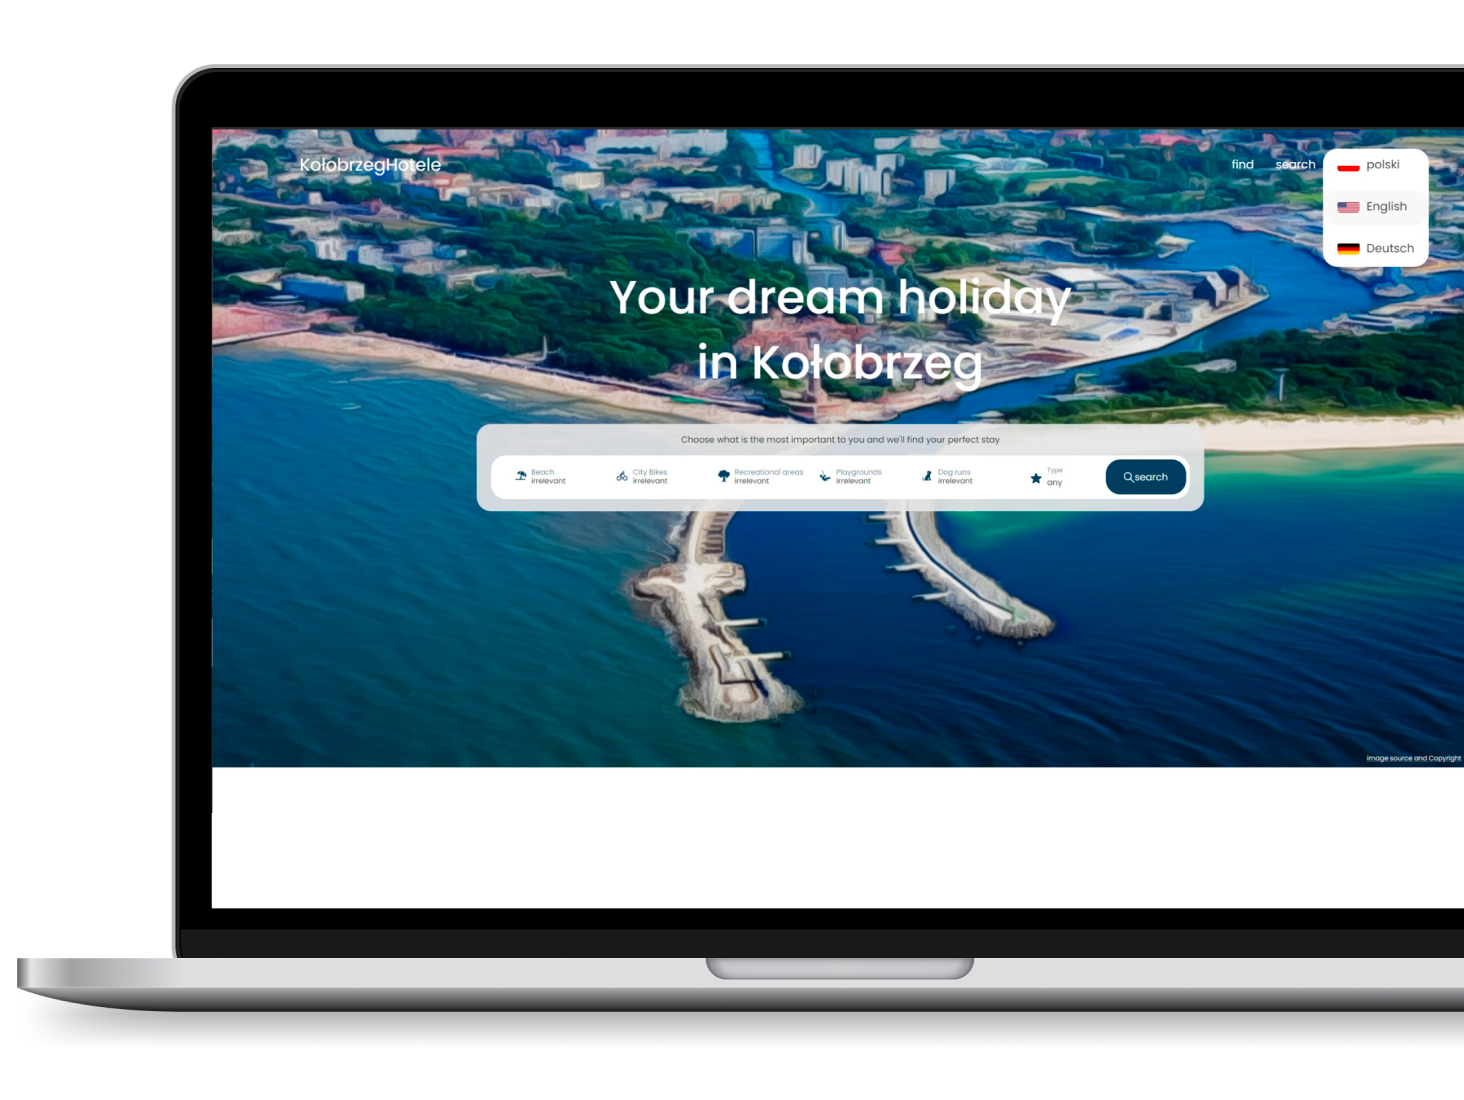
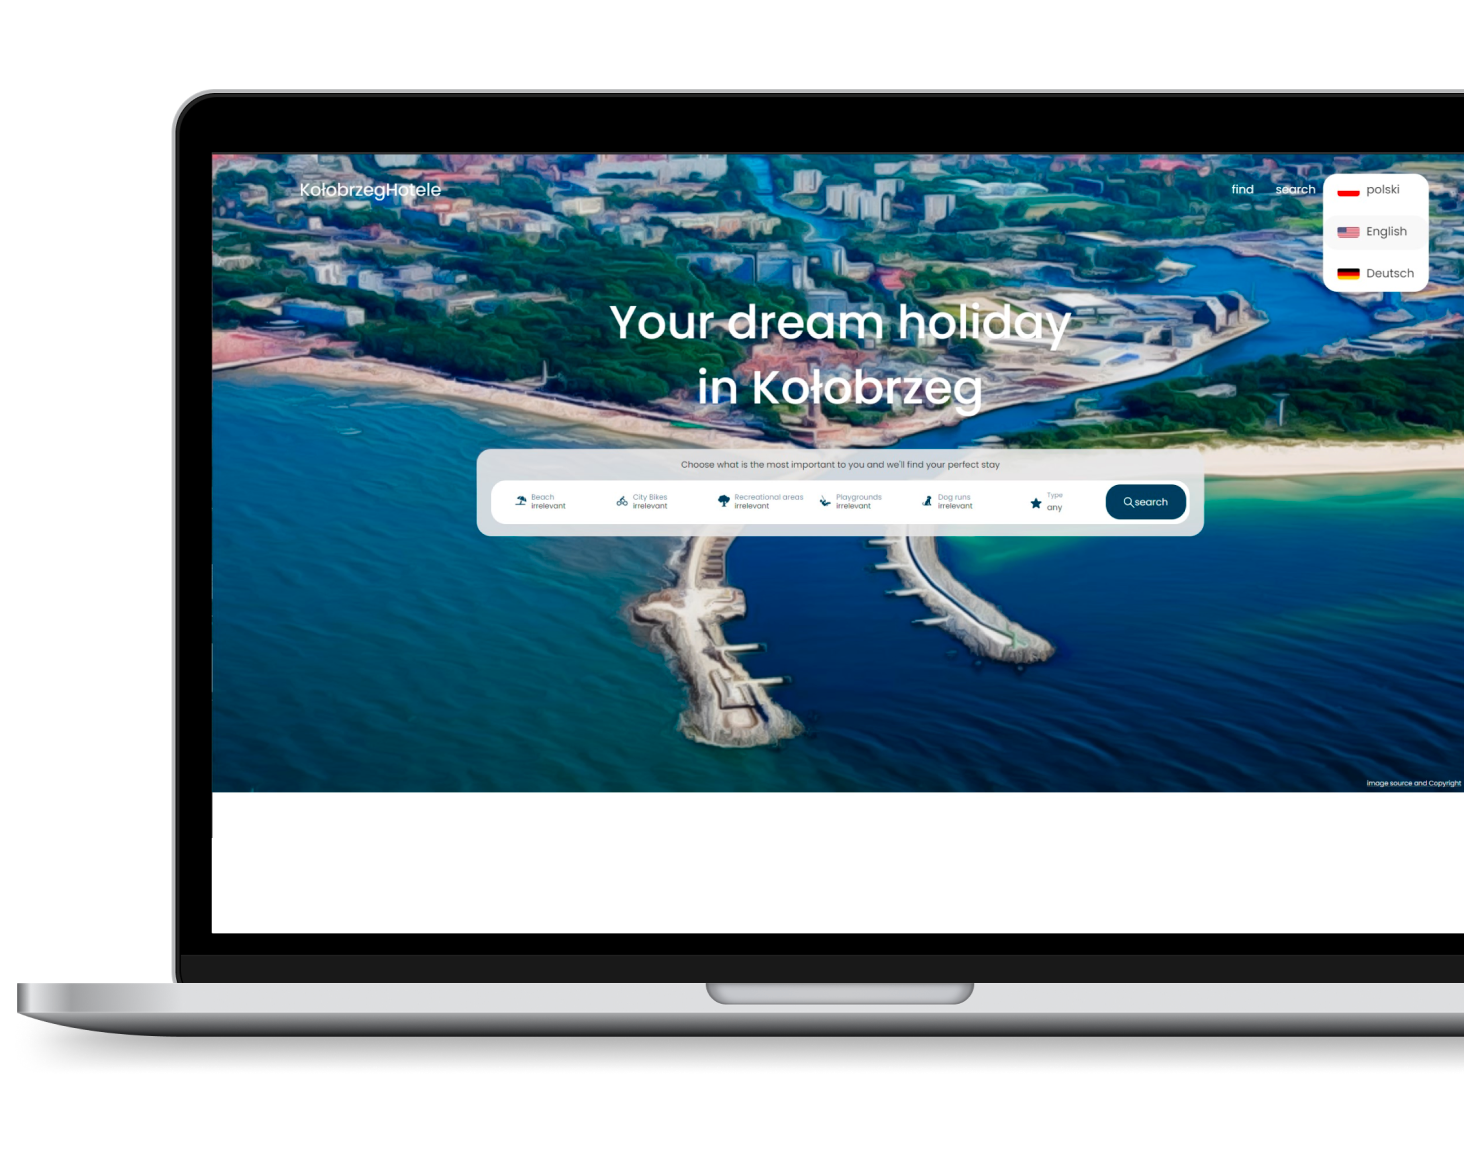
light-mode

diff --git a/src/styles/App.scss b/src/styles/App.scss
@@ -1,9 +1,10 @@
 @import url('https://fonts.googleapis.com/css2?family=Poppins:wght@200;300;400;500;600;700&family=Roboto+Slab:wght@200;300;400;500;600;700&display=swap');
 
-$primary: #191d25;
+$primary: #000000;
 $priamry-darker: #141618;
 $priamry-ligher: #242a36;
-$primary-accent: #7f93bd;
+$primary-accent: #06D6A0;
+$primary-second-accent: #1860A5;
 
 $skill-primary: #191d25;
 $skill-ligher: #5098bf;
@@ -30,17 +31,17 @@ h4,
 h5,
 h6,
 p {
-  color: white;
+  color: rgb(30, 30, 30);
 }
 
 a {
-  color: rgb(200, 200, 200);
+  color: white;
   text-decoration: none;
   transition: 0.2s ease-out;
 }
 
 a:visited {
-  color: rgb(200, 200, 200);
+  color: white;
 }
 
 ul {
@@ -58,7 +59,7 @@ ul {
 .h1-outline {
   font-size: 300%;
   -webkit-text-stroke-width: 1px;
-  -webkit-text-stroke-color: #32353b;
+  -webkit-text-stroke-color: #bebebe;
   color: transparent;
   margin-bottom: 50px;
 }
@@ -69,10 +70,10 @@ ul {
 }
 
 button {
-  border: 3px solid $primary-accent;
-  background-color: $primary-accent;
+  border: 3px solid $primary-second-accent;
+  background-color: $primary-second-accent;
   padding: 0.4rem 1rem;
-  border-radius: 5px;
+  border-radius: 0.2rem;
   color: white;
   font-weight: 700;
   cursor: pointer;
@@ -81,7 +82,7 @@ button {
 
 button.secondary {
   background-color: transparent;
-  color: $primary-accent;
+  color: $primary-second-accent;
 }
 
 header {
@@ -90,14 +91,15 @@ header {
   display: flex;
   justify-content: center;
   width: 100%;
-  background-color: $primary;
+  background-color: rgba(0, 0, 0, 0.2);
+  backdrop-filter: blur(4px);
   z-index: 10;
-  opacity: 0.9;
+  opacity: 1;
 }
 
 header, footer {
   a:hover {
-    color: #7f93bd;
+    color: $primary-accent;
   }
 }
 
@@ -109,6 +111,9 @@ header, footer {
   max-width: 100%;
   height: 70px;
   padding: 0 3rem;
+  p {
+    color: white
+  }
 }
 
 .header-links {
@@ -134,7 +139,7 @@ img.header-flag {
   left: -0.8rem;
   flex-direction: column;
   background-color: $priamry-ligher;
-  border-radius: 0.5rem;
+  border-radius: 0.2rem;
   
 }
 
@@ -167,6 +172,9 @@ img.header-flag {
   overflow: hidden;
   button {
     margin-right: 0.8rem;
+  }
+  h1 {
+    color: white;
   }
 }
 
@@ -207,7 +215,6 @@ img.header-flag {
   align-items: center;
   height: 300px;
   padding: 3rem;
-  background-color: $priamry-ligher;
 }
 
 .below-top-inner {
@@ -232,7 +239,6 @@ img.header-flag {
   align-items: center;
   gap: 100px;
   padding: 100px 100px;
-  background-color: $priamry-darker;
 }
 
 .technologies-section {
@@ -259,12 +265,12 @@ img.header-flag {
   width: 100%;
   padding: 3rem 2rem;
   margin-bottom: 0.3rem;
-  background-color: $skill-primary;
-  border-radius: 0.5rem;
+  background-color: white;
+  border-radius: 0.2rem;
   overflow: hidden;
-  box-shadow: rgba(0, 0, 0, 0.2) 0px 5px 10px;
+  box-shadow: rgba(200, 200, 200, 0.4) 0px 2px 5px;
   i {
-    color: white;
+    color: rgb(30, 30, 30);
   }
 }
 
@@ -273,9 +279,9 @@ img.header-flag {
   display: flex;
   width: 100%;
   padding: 1rem 2rem;
-  background-color: $skill-primary;
-  border-radius: 0.5rem;
-  box-shadow: rgba(0, 0, 0, 0.2) 0px 5px 10px;
+  background-color: white;
+  border-radius: 0.2rem;
+  box-shadow: rgba(200, 200, 200, 0.4) 0px 2px 5px;
   .font-ligher {
     z-index: 1;
   }
@@ -288,9 +294,9 @@ button.skill-button {
   height: 100%;
   width: 60px;
   padding-right: 25px;
-  color: #5098bf;
-  background-color: rgba(0, 142, 222, 0.17);
-  border-radius: 0 0.5rem 0.5rem 0;
+  color: $primary-accent;
+  background-color: rgba(6, 214, 158, 0.2);
+  border-radius: 0 0.2rem 0.2rem 0;
   border: none;
   transition: 0.2s cubic-bezier(0.37, 0.185, 0.78, 0.105);
   z-index: 2;
@@ -299,7 +305,7 @@ button.skill-button {
 
 button.skill-button:hover {
   width: 100%;
-  border-radius: 0.5rem;
+  border-radius: 0.2rem;
 }
 
 .project-container {
@@ -309,9 +315,9 @@ button.skill-button:hover {
   max-width: 100%;
   padding: 5rem;
   margin-bottom: 5rem;
-  border-radius: 1rem;
+  border-radius: 0.2rem;
   overflow: hidden;
-  box-shadow: rgba(0, 0, 0, 0.4) 0px 15px 25px
+  box-shadow: rgba(150, 150, 150, 0.1) 0px 15px 25px
 }
 
 .project-container-text {
@@ -335,8 +341,8 @@ button.skill-button:hover {
 }
 
 .project-img {
-  max-width: 55%;
-  max-height: 100%;
+  height: 100%;
+  max-width: auto;
   z-index: 1;
 }
 
@@ -359,7 +365,7 @@ button.skill-button:hover {
   color: white;
   font-size: 80%;
   text-decoration: none;
-  border-radius: 0.5rem;
+  border-radius: 0.2rem;
 }
 
 .project-container-buttons {
@@ -384,11 +390,11 @@ button.skill-button:hover {
 }
 
 .project-technologies-container span {
-  color: white;
+  color: black;
   font-size: 50%;
   padding: 0.25rem 0.7rem;
   margin: 0.7rem 0 1.5rem 0;
-  border-radius: 0.2rem;
+  border-radius: 0.1rem;
 }
 
 footer {

diff --git a/src/data/projects.js b/src/data/projects.js
@@ -14,9 +14,9 @@ const projects = [
     technologies: ['React', 'Laravel', 'SQL', 'jsPDF'],
     image: '/imgs/megazeen.png',
     colors: {
-      primary: '#00252D',
-      lighter: '#00303C',
-      darker: '#00181E',
+      primary: '#A2CEF9',
+      lighter: '#ABD6FF',
+      darker: '#0E2439',
     },
     url: 'https://github.com/jacqouese/ProjectC',
   },
@@ -35,9 +35,9 @@ const projects = [
     technologies: ['React Native', 'Laravel API', 'SQL', 'SQLite'],
     image: '/imgs/linguesia.png',
     colors: {
-      primary: '#2A2D37',
-      lighter: '#363A46',
-      darker: '#1B1F2B',
+      primary: '#A4F0CF',
+      lighter: '#C1FFE4',
+      darker: '#0E422B',
     },
     url: 'https://github.com/jacqouese/Linguesia',
   },
@@ -56,9 +56,9 @@ const projects = [
     technologies: ['Browser', 'VanilaJS', 'IndexedDB'],
     image: '/imgs/youtube.png',
     colors: {
-      primary: '#003647',
-      lighter: '#004358',
-      darker: '#001C25',
+      primary: '#FFD6B0',
+      lighter: '#FFDEBF',
+      darker: '#301904',
     },
     url: 'https://github.com/jacqouese/YouTubeScreenTime',
   },
@@ -77,9 +77,9 @@ const projects = [
     technologies: ['Electron', 'React', 'jsPDF'],
     image: '/imgs/tablerplus.png',
     colors: {
-      primary: '#0C1D1F',
-      lighter: '#132F32',
-      darker: '#091213',
+      primary: '#CDF0F3',
+      lighter: '#E2FDFF',
+      darker: '#082E31',
     },
     url: 'https://github.com/jacqouese/TablerPlus',
   },
@@ -98,9 +98,9 @@ const projects = [
     technologies: ['Laravel', 'VanillaJS', 'External API', 'Bing Maps'],
     image: '/imgs/hotels.png',
     colors: {
-      primary: '#132E40',
-      lighter: '#1C425B',
-      darker: '#081620',
+      primary: '#DBDBDB',
+      lighter: '#EBEBEB',
+      darker: '#021B1E',
     },
     url: 'https://github.com/jacqouese/project-k',
   },

diff --git a/src/App.js b/src/App.js
@@ -23,15 +23,20 @@ function App() {
     <div className="App">
       <Header />
       <TopSection offsetY={offsetY} />
-      <BelowTopSection />
       <motion.div
-        className="lower-sections"
-        transition={{ duration: 1.5, delay: 0.5 }}
-        initial={{ backgroundColor: '#242a36' }}
-        whileInView={{ backgroundColor: '#141618' }}
-      >
-        <TechnologiesSection offsetY={offsetY} />
-        <ProjectsSection offsetY={offsetY} />
+          className="test"
+          transition={{ duration: 1, delay: 0.2 }}
+          initial={{ backgroundColor: '#1860A5' }}
+          whileInView={{ backgroundColor: '#F9F9F9' }}
+          viewport={{ margin: '0px 0px -280px 0px', once: true }}
+        >
+        <BelowTopSection />
+        <div
+          className="lower-sections"
+        >
+          <TechnologiesSection offsetY={offsetY} />
+          <ProjectsSection offsetY={offsetY} />
+        </div>
       </motion.div>
       <Footer />
     </div>
